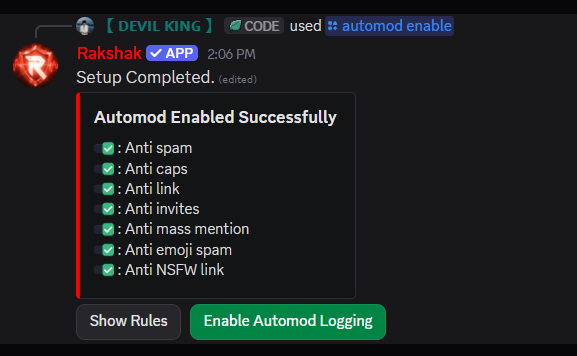
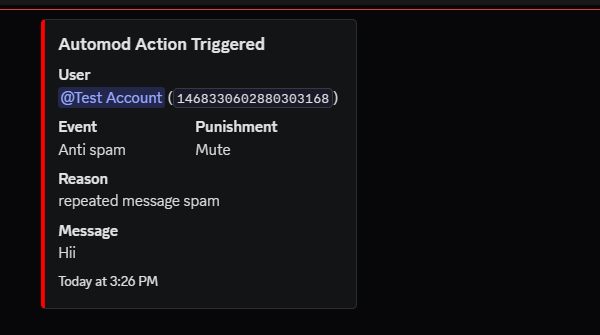
Updated legal Documents

Changed region(s): [[0.0, 0.0299, 0.8111, 0.9552], [0.5927, 0.2388, 0.6239, 0.2687]]

diff --git a/docs/privileged-intents/index.html b/docs/privileged-intents/index.html
@@ -31,7 +31,7 @@
       <article id="transparency-note" class="policy-card reveal"><h2>Transparency Note</h2><p>This page explains Rakshak's use of privileged Discord gateway data using genuine screenshots and videos from a Rakshak testing server. The evidence is provided for technical review and does not represent or imply approval, certification, endorsement, or verification by Discord.</p></article>
       <article id="guild-members-intent" class="policy-card reveal intent-section"><h2>Guild Members Intent</h2><p>Rakshak uses real-time guild member events for administrator-enabled member automation, role-update monitoring, and staff logging.</p><div class="intent-content-grid"><div><h3>Demonstrated Workflows</h3><ul><li>Automatic member join logging</li><li>Automatic role assignment</li><li>Automatic member role-update logging</li><li>Detection of role additions and removals</li><li>Automatic member leave logging</li><li>Updated member-count information associated with join and leave events</li></ul><h3>Why Real-Time Member Events Are Used</h3><p>These workflows must run when a member joins, is updated, or leaves the server. They are not initiated by the affected member through a command. On-demand lookups or interaction payloads do not provide the same automatic join, update, and leave workflow.</p><h3>Data Used</h3><p>Depending on the enabled workflow, Rakshak may process the member's Discord user ID, guild ID, account creation timestamp, guild join timestamp, current roles, member-count information, and relevant member-event metadata. This data is used only to perform the configured automation or create the configured staff log.</p></div><div><span class="evidence-badge">Evidence Video</span><h3>Guild Members Intent Evidence Video</h3><p>This video demonstrates a member joining, automatic role assignment, role additions and removals being logged through member-update events, and the member leaving the server.</p></div></div><div class="video-frame" aria-label="Guild Members Intent Evidence Video"><video controls preload="metadata" playsinline title="Guild Members Intent Evidence Video"><source src="/Rakshak/assets/proofs/guild-members/guild-members-intent-proof.mp4" type="video/mp4">Your browser does not support embedded video. Open the Guild Members evidence video with the link below.</video><div class="video-copy"><a class="button ghost" href="/Rakshak/assets/proofs/guild-members/guild-members-intent-proof.mp4" target="_blank" rel="noopener noreferrer">Open Video</a></div></div><div class="screenshot-gallery"><figure class="screenshot-card"><a href="/Rakshak/assets/proofs/guild-members/member-joined.png" target="_blank" rel="noopener noreferrer"><img src="/Rakshak/assets/proofs/guild-members/member-joined.png" loading="lazy" alt="Rakshak member joined log showing a real-time guild member join event."></a><figcaption><h3>Member Joined</h3><p>Rakshak automatically receives and logs the member join event, account information, account age, and updated member count.</p></figcaption></figure><figure class="screenshot-card"><a href="/Rakshak/assets/proofs/guild-members/member-role-updated.png" target="_blank" rel="noopener noreferrer"><img src="/Rakshak/assets/proofs/guild-members/member-role-updated.png" loading="lazy" alt="Rakshak member role update logs showing roles added and removed."></a><figcaption><h3>Member Roles Updated</h3><p>Rakshak automatically logs role additions and removals received through member update events.</p></figcaption></figure><figure class="screenshot-card"><a href="/Rakshak/assets/proofs/guild-members/member-left.png" target="_blank" rel="noopener noreferrer"><img src="/Rakshak/assets/proofs/guild-members/member-left.png" loading="lazy" alt="Rakshak member left log showing a real-time guild member leave event."></a><figcaption><h3>Member Left</h3><p>Rakshak automatically receives and logs the member leave event, previous roles, joined duration, and updated member count.</p></figcaption></figure></div></article>
       <article id="guild-presences-intent" class="policy-card reveal intent-section"><h2>Guild Presences Intent</h2><p>Rakshak uses real-time presence and activity updates for administrator-enabled vanity-status role synchronization and current server presence statistics.</p><div class="intent-content-grid"><div><h3>Primary Workflow - Automatic Vanity Status Role Synchronization</h3><p>A server administrator configures a custom-status text, a linked role, and a staff log channel. When Rakshak receives a real-time presence or activity update and detects the configured text in a member's custom status, it automatically adds the configured role. When the configured text is removed, Rakshak automatically removes the role.</p><p>This workflow runs from the member's real-time status change and does not require the member to invoke a command.</p><h3>Supporting Workflow - Presence Statistics</h3><p>The <code>/membercount</code> application command displays the current online, Do Not Disturb, idle, and offline counts available to Rakshak.</p><h3>Data Used</h3><p>Rakshak may process a member's Discord user ID, current presence state, and relevant custom-status or activity information only as needed to provide the configured vanity-role workflow or current presence statistics.</p></div><div><span class="evidence-badge">Evidence Video</span><h3>Guild Presences Intent Evidence Video</h3><p>This video demonstrates vanity-status configuration, automatic role assignment when the configured status text is detected, automatic role removal when the text is removed, and current online, Do Not Disturb, idle, and offline statistics.</p></div></div><div class="video-frame" aria-label="Guild Presences Intent Evidence Video"><video controls preload="metadata" playsinline title="Guild Presences Intent Evidence Video"><source src="/Rakshak/assets/proofs/guild-presences/guild-presences-intent-proof.mp4" type="video/mp4">Your browser does not support embedded video. Open the Guild Presences evidence video with the link below.</video><div class="video-copy"><a class="button ghost" href="/Rakshak/assets/proofs/guild-presences/guild-presences-intent-proof.mp4" target="_blank" rel="noopener noreferrer">Open Video</a></div></div><div class="screenshot-gallery"><figure class="screenshot-card"><a href="/Rakshak/assets/proofs/guild-presences/vanity-status-setup.png" target="_blank" rel="noopener noreferrer"><img src="/Rakshak/assets/proofs/guild-presences/vanity-status-setup.png" loading="lazy" alt="Rakshak vanity status role setup showing configured status text, role, and log channel."></a><figcaption><h3>Vanity Status Setup</h3><p>A server administrator configures the required custom-status text, linked role, and staff log channel.</p></figcaption></figure><figure class="screenshot-card"><a href="/Rakshak/assets/proofs/guild-presences/vanity-status-logs.png" target="_blank" rel="noopener noreferrer"><img src="/Rakshak/assets/proofs/guild-presences/vanity-status-logs.png" loading="lazy" alt="Rakshak vanity status logs showing automatic role addition and removal."></a><figcaption><h3>Automatic Role Synchronization</h3><p>Rakshak automatically adds the configured role when the member's custom status matches and removes it when the status no longer matches.</p></figcaption></figure><figure class="screenshot-card"><a href="/Rakshak/assets/proofs/guild-presences/membercount.png" target="_blank" rel="noopener noreferrer"><img src="/Rakshak/assets/proofs/guild-presences/membercount.png" loading="lazy" alt="Rakshak member count command showing online, Do Not Disturb, idle, and offline statistics."></a><figcaption><h3>Presence Statistics</h3><p>Rakshak displays current online, Do Not Disturb, idle, and offline member statistics.</p></figcaption></figure></div></article>
-      <article id="message-content-intent" class="policy-card reveal intent-section"><h2>Message Content Intent</h2><p>Rakshak uses Message Content access only for administrator-enabled features that require the bot to process ordinary guild messages. The demonstrated workflows include ticket transcript generation, natural AI conversations in enabled channels, administrator-configured autoresponders, and repeated-message content moderation.</p><p>Message Content access is not requested for passive monitoring or unrelated server activity. Processing is limited to the specific features enabled and configured by server administrators.</p><div class="intent-content-grid"><div><h3>Demonstrated Workflows</h3><ul><li>Ticket transcript generation for administrator-authorized ticket closures</li><li>Natural AI conversations in administrator-enabled channels</li><li>Administrator-configured autoresponder trigger matching</li><li>Repeated-message moderation using recent message content</li></ul><h3>Why Ordinary Message Evaluation Is Used</h3><p>These enabled workflows depend on ordinary guild message text rather than command inputs. Rakshak processes message content only as needed for the configured feature.</p></div><div><span class="evidence-badge">Evidence Video</span><h3>Complete Message Content Demonstration</h3><p>This demonstration shows Rakshak processing ordinary guild messages across ticket transcripts, AI conversations, autoresponders, and repeated-message moderation.</p></div></div><div class="video-frame" aria-label="Complete Message Content Demonstration"><video controls preload="metadata" playsinline title="Complete Message Content Demonstration"><source src="/Rakshak/assets/proofs/message-content/message-content-intent-proof.mp4" type="video/mp4">Your browser does not support embedded video. Open the Message Content evidence video with the link below.</video><div class="video-copy"><a class="button ghost" href="/Rakshak/assets/proofs/message-content/message-content-intent-proof.mp4" target="_blank" rel="noopener noreferrer">Open Video</a></div></div><div class="screenshot-gallery message-content-gallery"><figure class="screenshot-card"><a href="/Rakshak/assets/proofs/message-content/ticket-transcript-system.png" target="_blank" rel="noopener noreferrer"><img src="/Rakshak/assets/proofs/message-content/ticket-transcript-system.png" loading="lazy" alt="Rakshak ticket transcript evidence showing a generated HTML ticket transcript with message content, authors, and timestamps."></a><figcaption><span class="evidence-badge">Primary Use Case</span><h3>Ticket Transcript System</h3><p>When an authorized staff member closes a ticket, Rakshak generates an HTML transcript containing the ticket conversation, message authors, timestamps, and recorded message content.</p></figcaption></figure><figure class="screenshot-card"><a href="/Rakshak/assets/proofs/message-content/ai-conversation-system.png" target="_blank" rel="noopener noreferrer"><img src="/Rakshak/assets/proofs/message-content/ai-conversation-system.png" loading="lazy" alt="Rakshak AI conversation evidence showing ordinary messages in an administrator-enabled AI channel."></a><figcaption><span class="evidence-badge">Primary Use Case</span><h3>AI Conversation System</h3><p>After AI is enabled in a specific channel, Rakshak processes ordinary user messages there to generate relevant conversational responses.</p></figcaption></figure><figure class="screenshot-card"><a href="/Rakshak/assets/proofs/message-content/autoresponder-system.png" target="_blank" rel="noopener noreferrer"><img src="/Rakshak/assets/proofs/message-content/autoresponder-system.png" loading="lazy" alt="Rakshak autoresponder evidence showing administrator-configured message triggers and server-defined responses."></a><figcaption><span class="evidence-badge">Supporting Use Case</span><h3>Autoresponder System</h3><p>Rakshak compares ordinary message text with administrator-configured triggers and sends the corresponding configured response when a trigger matches.</p></figcaption></figure><figure class="screenshot-card"><a href="/Rakshak/assets/proofs/message-content/automod-anti-spam-system.png" target="_blank" rel="noopener noreferrer"><img src="/Rakshak/assets/proofs/message-content/automod-anti-spam-system.png" loading="lazy" alt="Rakshak repeated-message moderation evidence showing repeated-message content evaluation and staff logging."></a><figcaption><span class="evidence-badge">Supporting Use Case</span><h3>Repeated-Message Moderation</h3><p>Rakshak evaluates recent message content to detect repeated identical messages, apply the configured moderation action, and generate a rule-specific staff log.</p></figcaption></figure></div><div class="message-info-grid"><div class="evidence-link-group"><h3>Why Message Content Access Is Required</h3><p>These workflows require Rakshak to access the content of ordinary guild messages:</p><ul><li>Ticket transcripts require the recorded ticket conversation to be included in the generated HTML transcript.</li><li>Enabled AI channels require the user's ordinary messages to generate relevant conversational responses.</li><li>Autoresponders require ordinary message text to be compared with administrator-configured triggers.</li><li>Repeated-message moderation requires recent message content to be evaluated for repeated identical messages.</li></ul><p>Without Message Content access, Rakshak may receive a message event but cannot reliably access the ordinary guild message text required by these enabled workflows.</p></div><div class="evidence-link-group"><h3>Alternatives and Minimum Access</h3><p>Rakshak uses Discord application commands and interactive components for feature configuration wherever supported.</p><p>Message Content access is used only within administrator-enabled workflows that require Rakshak to process ordinary guild message text, including ticket transcript generation, AI conversations, autoresponder matching, and repeated-message content evaluation.</p><p>Rakshak does not request Message Content access solely to support prefix commands or unrelated message monitoring.</p></div></div><div class="evidence-link-group" style="margin-top: 18px;"><h3>Privacy and Data Processing</h3><p>Rakshak processes message content only as necessary to perform enabled features. Ticket content may appear in an administrator-authorized transcript generated when the ticket is closed.</p><p>Rakshak does not use Discord message data to train its own AI models. When an enabled AI feature uses an external service, the submitted interaction may be processed by that service as necessary to generate the requested response, subject to that service's applicable terms and privacy practices.</p><p>The evidence shown on this page demonstrates Rakshak's implemented functionality and the technical use of the requested intent. It does not imply approval, endorsement, or certification by Discord.</p></div></article>
+      <article id="message-content-intent" class="policy-card reveal intent-section"><h2>Message Content Intent</h2><p>Rakshak uses Message Content access only for administrator-enabled features that require the bot to process ordinary guild messages. The demonstrated workflows include ticket transcript generation, natural AI conversations in enabled channels, administrator-configured autoresponders, and repeated-message content moderation.</p><p>Message Content access is not requested for passive monitoring or unrelated server activity. Processing is limited to the specific features enabled and configured by server administrators.</p><div class="intent-content-grid"><div><h3>Demonstrated Workflows</h3><ul><li>Ticket transcript generation for administrator-authorized ticket closures</li><li>Natural AI conversations in administrator-enabled channels</li><li>Administrator-configured autoresponder trigger matching</li><li>Repeated-message moderation using recent message content</li></ul><h3>Why Ordinary Message Evaluation Is Used</h3><p>These enabled workflows depend on ordinary guild message text rather than command inputs. Rakshak processes message content only as needed for the configured feature.</p></div><div><span class="evidence-badge">Evidence Video</span><h3>Complete Message Content Demonstration</h3><p>This demonstration shows Rakshak processing ordinary guild messages across ticket transcripts, AI conversations, autoresponders, and repeated-message moderation.</p></div></div><div class="video-frame" aria-label="Complete Message Content Demonstration"><video controls preload="metadata" playsinline title="Complete Message Content Demonstration"><source src="/Rakshak/assets/proofs/message-content/message-content-intent-proof.mp4" type="video/mp4">Your browser does not support embedded video. Open the Message Content evidence video with the link below.</video><div class="video-copy"><a class="button ghost" href="/Rakshak/assets/proofs/message-content/message-content-intent-proof.mp4" target="_blank" rel="noopener noreferrer">Open Video</a></div></div><div class="screenshot-gallery message-content-gallery"><figure class="screenshot-card"><a href="/Rakshak/assets/proofs/message-content/ticket-transcript-system.png" target="_blank" rel="noopener noreferrer"><img src="/Rakshak/assets/proofs/message-content/ticket-transcript-system.png" loading="lazy" alt="Rakshak ticket transcript evidence showing a generated HTML ticket transcript with message content, authors, and timestamps."></a><figcaption><span class="evidence-badge">Primary Use Case</span><h3>Ticket Transcript System</h3><p>When an authorized staff member closes a ticket, Rakshak generates an HTML transcript containing the ticket conversation, message authors, timestamps, and recorded message content.</p></figcaption></figure><figure class="screenshot-card"><a href="/Rakshak/assets/proofs/message-content/ai-conversation-system.png" target="_blank" rel="noopener noreferrer"><img src="/Rakshak/assets/proofs/message-content/ai-conversation-system.png" loading="lazy" alt="Rakshak AI conversation evidence showing ordinary messages in an administrator-enabled AI channel."></a><figcaption><span class="evidence-badge">Primary Use Case</span><h3>AI Conversation System</h3><p>After AI is enabled in a specific channel, Rakshak processes ordinary user messages there to generate relevant conversational responses.</p></figcaption></figure><figure class="screenshot-card"><a href="/Rakshak/assets/proofs/message-content/autoresponder-system.png" target="_blank" rel="noopener noreferrer"><img src="/Rakshak/assets/proofs/message-content/autoresponder-system.png" loading="lazy" alt="Rakshak autoresponder evidence showing administrator-configured message triggers and server-defined responses."></a><figcaption><span class="evidence-badge">Supporting Use Case</span><h3>Autoresponder System</h3><p>Rakshak compares ordinary message text with administrator-configured triggers and sends the corresponding configured response when a trigger matches.</p></figcaption></figure><figure class="screenshot-card"><a href="/Rakshak/assets/proofs/message-content/automod-anti-spam-system.png" target="_blank" rel="noopener noreferrer"><img src="/Rakshak/assets/proofs/message-content/automod-anti-spam-system.png" loading="lazy" alt="Rakshak repeated-message moderation log showing spam detection and the configured moderation action."></a><figcaption><span class="evidence-badge">Supporting Use Case</span><h3>Repeated-Message Moderation</h3><p>Rakshak evaluates recent message content to detect repeated identical messages, apply the configured moderation action, and generate a rule-specific staff log.</p></figcaption></figure></div><div class="message-info-grid"><div class="evidence-link-group"><h3>Why Message Content Access Is Required</h3><p>These workflows require Rakshak to access the content of ordinary guild messages:</p><ul><li>Ticket transcripts require the recorded ticket conversation to be included in the generated HTML transcript.</li><li>Enabled AI channels require the user's ordinary messages to generate relevant conversational responses.</li><li>Autoresponders require ordinary message text to be compared with administrator-configured triggers.</li><li>Repeated-message moderation requires recent message content to be evaluated for repeated identical messages.</li></ul><p>Without Message Content access, Rakshak may receive a message event but cannot reliably access the ordinary guild message text required by these enabled workflows.</p></div><div class="evidence-link-group"><h3>Alternatives and Minimum Access</h3><p>Rakshak uses Discord application commands and interactive components for feature configuration wherever supported.</p><p>Message Content access is used only within administrator-enabled workflows that require Rakshak to process ordinary guild message text, including ticket transcript generation, AI conversations, autoresponder matching, and repeated-message content evaluation.</p><p>Rakshak does not request Message Content access solely to support prefix commands or unrelated message monitoring.</p></div></div><div class="evidence-link-group" style="margin-top: 18px;"><h3>Privacy and Data Processing</h3><p>Rakshak processes message content only as necessary to perform enabled features. Ticket content may appear in an administrator-authorized transcript generated when the ticket is closed.</p><p>Rakshak does not use Discord message data to train its own AI models. When an enabled AI feature uses an external service, the submitted interaction may be processed by that service as necessary to generate the requested response, subject to that service's applicable terms and privacy practices.</p><p>The evidence shown on this page demonstrates Rakshak's implemented functionality and the technical use of the requested intent. It does not imply approval, endorsement, or certification by Discord.</p></div></article>
       <article id="administrator-control" class="policy-card reveal"><h2>Administrator Control and Data Handling</h2><ul><li>Optional Rakshak systems must be enabled or configured by an authorized server administrator.</li><li>Rakshak processes only the data required for the enabled workflow.</li><li>Interactive configuration is provided through Discord application commands where supported.</li><li>Rakshak does not sell user data or use Discord data for advertising or unrelated profiling.</li><li>Detailed information about processing, retention, third-party handling, and deletion is available in the Privacy Policy.</li><li>Users and server owners may use the private contact and deletion methods documented on the website.</li></ul><div class="intent-button-row"><a class="button ghost" href="/Rakshak/privacy-policy/">Read Privacy Policy</a><a class="button ghost" href="/Rakshak/data-deletion/">Request Data Deletion</a><a class="button ghost" href="/Rakshak/contact/">Contact Rakshak Support</a></div></article>
       <article id="evidence-transparency" class="policy-card reveal"><h2>Evidence Transparency</h2><p>All screenshots and videos on this page are genuine recordings from a Rakshak testing server. They demonstrate the currently implemented workflows shown on this page. The evidence is provided to explain Rakshak's use of Discord gateway data and does not represent or imply approval, certification, endorsement, or verification by Discord.</p></article>
       <article id="direct-evidence-links" class="policy-card reveal"><h2>Direct Evidence Links</h2><div class="evidence-link-grid"><div class="evidence-link-group"><h3>Guild Members</h3><ul><li><a href="https://rakshakbot.github.io/Rakshak/assets/proofs/guild-members/guild-members-intent-proof.mp4" target="_blank" rel="noopener noreferrer">Evidence video</a></li><li><a href="https://rakshakbot.github.io/Rakshak/assets/proofs/guild-members/member-joined.png" target="_blank" rel="noopener noreferrer">Member Joined screenshot</a></li><li><a href="https://rakshakbot.github.io/Rakshak/assets/proofs/guild-members/member-role-updated.png" target="_blank" rel="noopener noreferrer">Member Roles Updated screenshot</a></li><li><a href="https://rakshakbot.github.io/Rakshak/assets/proofs/guild-members/member-left.png" target="_blank" rel="noopener noreferrer">Member Left screenshot</a></li></ul></div><div class="evidence-link-group"><h3>Guild Presences</h3><ul><li><a href="https://rakshakbot.github.io/Rakshak/assets/proofs/guild-presences/guild-presences-intent-proof.mp4" target="_blank" rel="noopener noreferrer">Evidence video</a></li><li><a href="https://rakshakbot.github.io/Rakshak/assets/proofs/guild-presences/vanity-status-setup.png" target="_blank" rel="noopener noreferrer">Vanity Status Setup screenshot</a></li><li><a href="https://rakshakbot.github.io/Rakshak/assets/proofs/guild-presences/vanity-status-logs.png" target="_blank" rel="noopener noreferrer">Automatic Role Synchronization screenshot</a></li><li><a href="https://rakshakbot.github.io/Rakshak/assets/proofs/guild-presences/membercount.png" target="_blank" rel="noopener noreferrer">Presence Statistics screenshot</a></li></ul></div><div class="evidence-link-group"><h3>Message Content</h3><ul><li><a href="https://rakshakbot.github.io/Rakshak/assets/proofs/message-content/message-content-intent-proof.mp4" target="_blank" rel="noopener noreferrer">Evidence video</a></li><li><a href="https://rakshakbot.github.io/Rakshak/assets/proofs/message-content/ticket-transcript-system.png" target="_blank" rel="noopener noreferrer">Ticket Transcript System screenshot</a></li><li><a href="https://rakshakbot.github.io/Rakshak/assets/proofs/message-content/ai-conversation-system.png" target="_blank" rel="noopener noreferrer">AI Conversation System screenshot</a></li><li><a href="https://rakshakbot.github.io/Rakshak/assets/proofs/message-content/autoresponder-system.png" target="_blank" rel="noopener noreferrer">Autoresponder System screenshot</a></li><li><a href="https://rakshakbot.github.io/Rakshak/assets/proofs/message-content/automod-anti-spam-system.png" target="_blank" rel="noopener noreferrer">Repeated-Message Moderation screenshot</a></li></ul></div></div></article>
